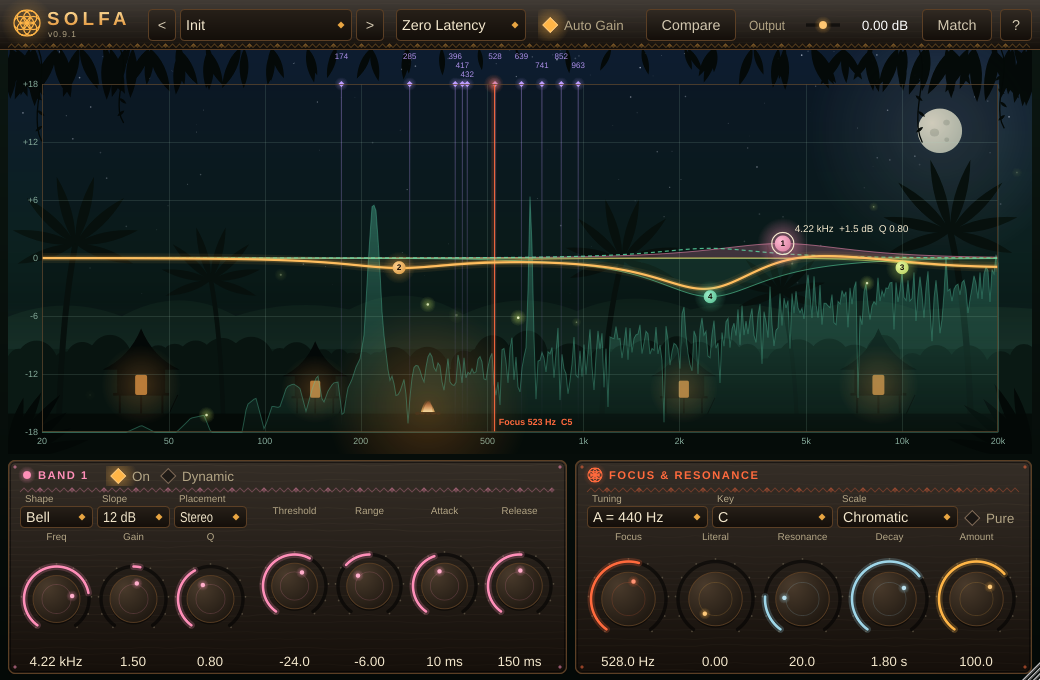
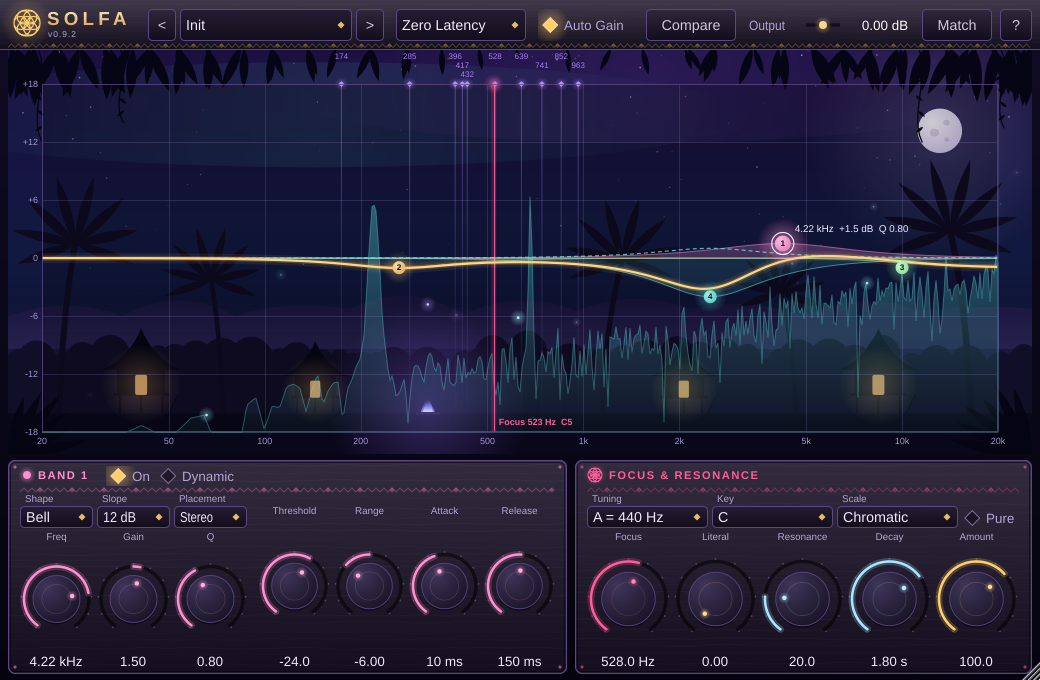
More mystical colours (0.9.2)
- Indigo-violet night sky with a faint aqua and violet aurora wash
- Amethyst-stained wood panels, violet rims, amethyst stone knobs
- Violet spirit fire; aqua and violet spirit lights replace yellow fireflies
- Aqua analyser mist, amethyst solfeggio beams, rose-pink Focus beam,
  jewel-tone band palette; EQ curve stays gold for readability
- Colours only: no change to DSP, parameters, state or layout
- README, CHANGELOG, VERSION and screenshots updated

Claude-Session: https://claude.ai/code/session_01QCVWjobqht4Js8Q9LCPvce

diff --git a/source/ui/Scenery.cpp b/source/ui/Scenery.cpp
@@ -100,8 +100,8 @@ namespace solfa::ui::scenery
     void drawNightScene (juce::Graphics& g, juce::Rectangle<float> r)
     {
         using juce::Colour;
-        juce::ColourGradient sky (Colour (0xff0e1c30), r.getX(), r.getY(), Colour (0xff060d0a), r.getX(), r.getBottom(), false);
-        sky.addColour (0.5, Colour (0xff0c211f));
+        juce::ColourGradient sky (Colour (0xff1c1040), r.getX(), r.getY(), Colour (0xff07071a), r.getX(), r.getBottom(), false);
+        sky.addColour (0.5, Colour (0xff121a42));
         g.setGradientFill (sky);
         g.fillRect (r);
 
@@ -114,20 +114,31 @@ namespace solfa::ui::scenery
             const auto x = r.getX() + rng.nextFloat() * r.getWidth();
             const auto y = r.getY() + fy * r.getHeight();
             const auto s = 0.5f + rng.nextFloat() * 1.3f;
-            g.setColour (Colour (0xffe8efff).withAlpha ((0.12f + 0.55f * rng.nextFloat()) * (1.0f - fy)));
+            g.setColour (Colour (0xffeee8ff).withAlpha ((0.12f + 0.55f * rng.nextFloat()) * (1.0f - fy)));
             g.fillEllipse (x - s / 2, y - s / 2, s, s);
+        }
+
+        // Aurora: two soft washes (aqua, violet) drifting across the upper sky
+        for (auto [cx, cy, rx, colour, alpha] : { std::tuple { 0.30f, 0.16f, 0.42f, Colour (0xff4fe6d2), 0.10f },
+                                                    std::tuple { 0.62f, 0.10f, 0.36f, Colour (0xffb06bff), 0.11f } })
+        {
+            const juce::Point<float> c { r.getX() + r.getWidth() * cx, r.getY() + r.getHeight() * cy };
+            const auto w = r.getWidth() * rx, h = r.getHeight() * 0.13f;
+            juce::ColourGradient wash (colour.withAlpha (alpha), c.x, c.y, colour.withAlpha (0.0f), c.x + w, c.y, true);
+            g.setGradientFill (wash);
+            g.fillEllipse (c.x - w, c.y - h, w * 2, h * 2);
         }
 
         // Moon with a wide halo
         const auto mr = juce::jlimit (12.0f, 30.0f, juce::jmin (r.getWidth(), r.getHeight()) * 0.055f);
         const juce::Point<float> mc { r.getRight() - r.getWidth() * 0.09f, r.getY() + r.getHeight() * 0.2f };
-        g.setGradientFill (juce::ColourGradient (Colour (0xffcfe4ff).withAlpha (0.16f), mc.x, mc.y, Colour (0xffcfe4ff).withAlpha (0.0f),
+        g.setGradientFill (juce::ColourGradient (Colour (0xffd9ccff).withAlpha (0.18f), mc.x, mc.y, Colour (0xffd9ccff).withAlpha (0.0f),
             mc.x + mr * 6, mc.y, true));
         g.fillEllipse (mc.x - mr * 6, mc.y - mr * 6, mr * 12, mr * 12);
-        g.setGradientFill (juce::ColourGradient (Colour (0xfffdf8e4), mc.x - mr * 0.35f, mc.y - mr * 0.35f, Colour (0xffc4cfbf),
+        g.setGradientFill (juce::ColourGradient (Colour (0xfffbf7ff), mc.x - mr * 0.35f, mc.y - mr * 0.35f, Colour (0xffc6bce6),
             mc.x + mr, mc.y + mr, true));
         g.fillEllipse (mc.x - mr, mc.y - mr, mr * 2, mr * 2);
-        g.setColour (Colour (0xff4a5848).withAlpha (0.18f));
+        g.setColour (Colour (0xff5a4f7c).withAlpha (0.18f));
         g.fillEllipse (mc.x - mr * 0.45f, mc.y - mr * 0.1f, mr * 0.42f, mr * 0.36f);
         g.fillEllipse (mc.x + mr * 0.15f, mc.y - mr * 0.5f, mr * 0.3f, mr * 0.26f);
         g.fillEllipse (mc.x + mr * 0.2f, mc.y + mr * 0.3f, mr * 0.22f, mr * 0.2f);
@@ -147,17 +158,17 @@ namespace solfa::ui::scenery
             }
             hills.lineTo (r.getRight(), r.getBottom());
             hills.closeSubPath();
-            g.setColour (Colour (0xff10261f));
+            g.setColour (Colour (0xff1b1640));
             g.fillPath (hills);
         }
 
         // Mist band in front of the hills
-        g.setGradientFill (juce::ColourGradient (Colour (0xff6fa59a).withAlpha (0.0f), 0, r.getY() + r.getHeight() * 0.62f,
-            Colour (0xff6fa59a).withAlpha (0.07f), 0, r.getY() + r.getHeight() * 0.74f, false));
+        g.setGradientFill (juce::ColourGradient (Colour (0xffa08fe6).withAlpha (0.0f), 0, r.getY() + r.getHeight() * 0.62f,
+            Colour (0xffa08fe6).withAlpha (0.09f), 0, r.getY() + r.getHeight() * 0.74f, false));
         g.fillRect (r.withTop (r.getY() + r.getHeight() * 0.62f).withHeight (r.getHeight() * 0.12f));
 
         // Treeline of rounded crowns
-        const auto treeColour = Colour (0xff0a1914);
+        const auto treeColour = Colour (0xff110e28);
         {
             juce::Path crowns;
             const auto line = r.getY() + r.getHeight() * 0.79f;
@@ -179,28 +190,28 @@ namespace solfa::ui::scenery
             drawPalm (g, { r.getX() + r.getWidth() * fx, ground }, r.getHeight() * fh, r.getHeight() * lean, treeColour.darker (0.2f));
 
         // Ground and the village
-        g.setColour (Colour (0xff050c09));
+        g.setColour (Colour (0xff09071a));
         g.fillRect (r.withTop (ground));
         const auto hutW = juce::jlimit (34.0f, 92.0f, r.getWidth() * 0.065f);
-        const auto hutColour = Colour (0xff040a08);
-        const auto lamp = Colour (0xffffa94d);
+        const auto hutColour = Colour (0xff060516);
+        const auto lamp = Colour (0xffffc27a);
         for (auto [fx, size] : { std::pair { 0.13f, 1.0f }, std::pair { 0.30f, 0.85f }, std::pair { 0.66f, 0.85f }, std::pair { 0.85f, 1.0f } })
             drawHut (g, r.getX() + r.getWidth() * fx, ground, hutW * size, hutColour, lamp);
 
         // Fire pit (stones and logs; the flame itself is animated)
         const auto fire = firePosition (r);
         const auto fs = fireScale (r);
-        g.setColour (Colour (0xff1a120c));
+        g.setColour (Colour (0xff1d1632));
         for (int i = -2; i <= 2; ++i)
             g.fillEllipse (fire.x + (float) i * fs * 0.32f - fs * 0.14f, fire.y - fs * 0.1f, fs * 0.28f, fs * 0.18f);
-        g.setColour (Colour (0xff2a1a10));
+        g.setColour (Colour (0xff2b1b2e));
         g.drawLine (fire.x - fs * 0.5f, fire.y, fire.x + fs * 0.4f, fire.y - fs * 0.2f, juce::jmax (1.5f, fs * 0.08f));
         g.drawLine (fire.x + fs * 0.5f, fire.y, fire.x - fs * 0.4f, fire.y - fs * 0.2f, juce::jmax (1.5f, fs * 0.08f));
     }
 
     void drawCanopy (juce::Graphics& g, juce::Rectangle<float> r)
     {
-        const auto c = juce::Colour (0xff030806);
+        const auto c = juce::Colour (0xff050413);
         juce::Random rng (404);
         juce::Path leaves;
 
@@ -256,8 +267,8 @@ namespace solfa::ui::scenery
     {
         const auto flicker = 0.82f + 0.11f * std::sin (t * 9.3f) + 0.07f * std::sin (t * 23.1f + 1.3f);
         const auto glowR = scale * 7.0f * flicker;
-        g.setGradientFill (juce::ColourGradient (juce::Colour (0xffff8a2a).withAlpha (0.30f * flicker), base.x, base.y - scale * 0.4f,
-            juce::Colour (0xffff8a2a).withAlpha (0.0f), base.x + glowR, base.y, true));
+        g.setGradientFill (juce::ColourGradient (juce::Colour (0xff9a6bff).withAlpha (0.34f * flicker), base.x, base.y - scale * 0.4f,
+            juce::Colour (0xff9a6bff).withAlpha (0.0f), base.x + glowR, base.y, true));
         g.fillEllipse (base.x - glowR, base.y - scale * 0.4f - glowR, glowR * 2, glowR * 2);
 
         // Two flame tongues swaying out of phase
@@ -271,8 +282,8 @@ namespace solfa::ui::scenery
             flame.quadraticTo (base.x - w * 0.8f, base.y - h * 0.6f, base.x + sway, base.y - h);
             flame.quadraticTo (base.x + w * 0.8f, base.y - h * 0.6f, base.x + w, base.y - scale * 0.1f);
             flame.closeSubPath();
-            g.setGradientFill (juce::ColourGradient (juce::Colour (k == 0 ? 0xffffd27a : 0xfffff1b8), base.x, base.y,
-                juce::Colour (0xffff5a1f).withAlpha (0.0f), base.x, base.y - h, false));
+            g.setGradientFill (juce::ColourGradient (juce::Colour (k == 0 ? 0xffb9a2ff : 0xffe4fbff), base.x, base.y,
+                juce::Colour (0xff7448ff).withAlpha (0.0f), base.x, base.y - h, false));
             g.fillPath (flame);
         }
     }
@@ -343,7 +354,7 @@ namespace solfa::ui::scenery
                 grain.startNewSubPath (r.getX(), y);
                 for (float x = r.getX() + 40.0f; x < r.getRight() + 40.0f; x += 40.0f)
                     grain.quadraticTo (x - 20.0f, y + (rng.nextFloat() - 0.5f) * 4.0f, x, y + (rng.nextFloat() - 0.5f) * 2.0f);
-                g.setColour (juce::Colour (0xffffe2b8).withAlpha (0.018f + 0.02f * rng.nextFloat()));
+                g.setColour (juce::Colour (0xffe6d8ff).withAlpha (0.018f + 0.02f * rng.nextFloat()));
                 g.strokePath (grain, juce::PathStrokeType (1.0f));
             }
         }
@@ -374,9 +385,10 @@ namespace solfa::ui::scenery
 
     void Fireflies::draw (juce::Graphics& g, juce::Rectangle<float> r) const
     {
-        const auto glowColour = theme::firefly;
-        for (const auto& f : flies)
+        for (size_t i = 0; i < flies.size(); ++i)
         {
+            const auto& f = flies[i];
+            const auto glowColour = i % 3 == 0 ? theme::marker : theme::firefly; // mostly aqua, some violet
             const auto blink = std::sin (time * f.rate + f.phase);
             const auto b = blink > 0.0f ? blink * blink * blink : 0.0f;
             if (b < 0.02f)
@@ -388,7 +400,7 @@ namespace solfa::ui::scenery
             const auto glow = 7.0f * f.size;
             g.setGradientFill (juce::ColourGradient (glowColour.withAlpha (0.45f * b), x, y, glowColour.withAlpha (0.0f), x + glow, y, true));
             g.fillEllipse (x - glow, y - glow, glow * 2, glow * 2);
-            g.setColour (juce::Colour (0xfff6ffd0).withAlpha (0.9f * b));
+            g.setColour (juce::Colour (0xfff2fdff).withAlpha (0.9f * b));
             const auto core = 1.1f * f.size;
             g.fillEllipse (x - core, y - core, core * 2, core * 2);
         }

diff --git a/source/ui/Theme.h b/source/ui/Theme.h
@@ -3,30 +3,31 @@
 #include <cmath>
 #include <juce_gui_basics/juce_gui_basics.h>
 
-// Solfa's own visual identity: an old jungle village at night. Moonlit sky, carved dark wood,
-// torch-gold curve, jade mist analyser, orchid-violet solfeggio markers, ember Focus, fireflies.
+// Solfa's own visual identity: a mystical jungle village at night. Indigo sky with an aurora,
+// amethyst-stained wood, sacred-gold curve, aqua spirit-mist analyser, amethyst solfeggio markers,
+// rose-flame Focus, spirit lights.
 namespace solfa::ui::theme
 {
-    inline const juce::Colour background { 0xff07100c }; // jungle night
-    inline const juce::Colour panel { 0xff1d150e };      // dark carved wood
-    inline const juce::Colour panelEdge { 0xff5b3f25 };  // wood rim
-    inline const juce::Colour grid { 0x24a8d5c0 };       // faint moonlit lines (translucent)
-    inline const juce::Colour gridText { 0xff86ab9b };
-    inline const juce::Colour text { 0xfff3e7cc };       // parchment
-    inline const juce::Colour dimText { 0xffb3a585 };
-    inline const juce::Colour curve { 0xffffb547 };      // torch gold
-    inline const juce::Colour spectrum { 0xff58d1ad };   // jade mist
-    inline const juce::Colour marker { 0xffbf9dff };     // orchid violet
-    inline const juce::Colour focus { 0xffff6a3d };      // ember
-    inline const juce::Colour accent { 0xff9fd6e8 };     // moonlight
-    inline const juce::Colour firefly { 0xffd7f56a };
+    inline const juce::Colour background { 0xff0a0816 }; // indigo night
+    inline const juce::Colour panel { 0xff1b1329 };      // amethyst-stained wood
+    inline const juce::Colour panelEdge { 0xff5c4683 };  // violet rim
+    inline const juce::Colour grid { 0x26c8b8ff };       // faint lilac lines (translucent)
+    inline const juce::Colour gridText { 0xffa497d2 };
+    inline const juce::Colour text { 0xfff1eaff };       // moon-white
+    inline const juce::Colour dimText { 0xffb3a6d4 };
+    inline const juce::Colour curve { 0xffffcf6e };      // sacred gold
+    inline const juce::Colour spectrum { 0xff5ee8e0 };   // spirit aqua
+    inline const juce::Colour marker { 0xffb48cff };     // amethyst
+    inline const juce::Colour focus { 0xffff5c9a };      // rose flame
+    inline const juce::Colour accent { 0xffa8e6ff };     // moonlight
+    inline const juce::Colour firefly { 0xff8ff7ff };
 
-    // One colour per band, cycling: orchid, torch, firefly, jade, river, moon, violet, ember.
+    // One colour per band, cycling: rose, gold, mint, aqua, sapphire, amethyst, orchid, coral.
     inline juce::Colour band (int index)
     {
-        static const juce::Colour palette[] = { juce::Colour (0xffff8fb8), juce::Colour (0xffffb347), juce::Colour (0xffd7f56a),
-            juce::Colour (0xff5fe0a8), juce::Colour (0xff4fd0e0), juce::Colour (0xff8fb8ff), juce::Colour (0xffc39bff),
-            juce::Colour (0xffff7a59) };
+        static const juce::Colour palette[] = { juce::Colour (0xffff8fd0), juce::Colour (0xffffc76b), juce::Colour (0xff9dffb0),
+            juce::Colour (0xff5ee8e0), juce::Colour (0xff7fb2ff), juce::Colour (0xffa98bff), juce::Colour (0xffe07bff),
+            juce::Colour (0xffff7f8a) };
         return palette[index % 8];
     }
 
@@ -53,7 +54,7 @@ namespace solfa::ui::theme
             setColour (juce::ComboBox::outlineColourId, panelEdge);
             setColour (juce::ComboBox::textColourId, text);
             setColour (juce::ComboBox::arrowColourId, curve);
-            setColour (juce::PopupMenu::backgroundColourId, juce::Colour (0xff140e09));
+            setColour (juce::PopupMenu::backgroundColourId, juce::Colour (0xff130e20));
             setColour (juce::PopupMenu::textColourId, text);
             setColour (juce::PopupMenu::headerTextColourId, curve);
             setColour (juce::PopupMenu::highlightedBackgroundColourId, panelEdge);
@@ -61,15 +62,15 @@ namespace solfa::ui::theme
             setColour (juce::TextButton::buttonColourId, panel);
             setColour (juce::TextButton::buttonOnColourId, curve);
             setColour (juce::TextButton::textColourOffId, text.withAlpha (0.85f));
-            setColour (juce::TextButton::textColourOnId, juce::Colour (0xff1a0f05));
+            setColour (juce::TextButton::textColourOnId, juce::Colour (0xff1a0f2a));
             setColour (juce::ToggleButton::textColourId, dimText);
             setColour (juce::ToggleButton::tickColourId, curve);
-            setColour (juce::TooltipWindow::backgroundColourId, juce::Colour (0xff140e09));
+            setColour (juce::TooltipWindow::backgroundColourId, juce::Colour (0xff130e20));
             setColour (juce::TooltipWindow::textColourId, text);
             setColour (juce::TooltipWindow::outlineColourId, panelEdge);
         }
 
-        // Carved stone knob: rune dots around the rim, a glowing ember arc, a lit pointer bead.
+        // Carved stone knob: rune dots around the rim, a glowing arc, a lit pointer bead.
         void drawRotarySlider (juce::Graphics& g, int x, int y, int w, int h, float pos, float start, float end,
             juce::Slider& slider) override
         {
@@ -111,8 +112,8 @@ namespace solfa::ui::theme
             // Stone body
             g.setColour (juce::Colours::black.withAlpha (0.5f));
             g.fillEllipse (centre.x - bodyR, centre.y - bodyR + 2.0f, bodyR * 2, bodyR * 2);
-            g.setGradientFill (juce::ColourGradient (juce::Colour (0xff4a3b2c), centre.x - bodyR * 0.4f, centre.y - bodyR * 0.5f,
-                juce::Colour (0xff15100b), centre.x + bodyR, centre.y + bodyR, true));
+            g.setGradientFill (juce::ColourGradient (juce::Colour (0xff3f3659), centre.x - bodyR * 0.4f, centre.y - bodyR * 0.5f,
+                juce::Colour (0xff110d1d), centre.x + bodyR, centre.y + bodyR, true));
             g.fillEllipse (centre.x - bodyR, centre.y - bodyR, bodyR * 2, bodyR * 2);
             g.setColour (panelEdge.withAlpha (0.9f));
             g.drawEllipse (centre.x - bodyR, centre.y - bodyR, bodyR * 2, bodyR * 2, 1.0f);
@@ -147,7 +148,7 @@ namespace solfa::ui::theme
             g.fillPath (p);
         }
 
-        // Wooden plaques; "on" plaques glow with torchlight.
+        // Wooden plaques; "on" plaques glow gold.
         void drawButtonBackground (juce::Graphics& g, juce::Button& b, const juce::Colour&, bool highlighted, bool down) override
         {
             const auto r = b.getLocalBounds().toFloat().reduced (0.5f);
@@ -155,7 +156,7 @@ namespace solfa::ui::theme
             if (on)
             {
                 glow (g, r.getCentre(), r.getWidth() * 0.7f, curve, 0.25f);
-                g.setGradientFill (juce::ColourGradient (curve.brighter (0.2f), 0, r.getY(), juce::Colour (0xffd9782a), 0, r.getBottom(), false));
+                g.setGradientFill (juce::ColourGradient (curve.brighter (0.2f), 0, r.getY(), juce::Colour (0xffd2953c), 0, r.getBottom(), false));
             }
             else
                 g.setGradientFill (juce::ColourGradient (panel.brighter (highlighted ? 0.25f : 0.1f), 0, r.getY(), panel.darker (0.5f), 0,

diff --git a/source/PluginEditor.cpp b/source/PluginEditor.cpp
@@ -137,7 +137,7 @@ void PluginEditor::paint (juce::Graphics& g)
     background.draw (g, getLocalBounds(), [] (juce::Graphics& bg, juce::Rectangle<float> r) {
         namespace theme = ui::theme;
         // Jungle floor behind the panels
-        bg.setGradientFill (juce::ColourGradient (juce::Colour (0xff0c1712), 0, r.getY(), juce::Colour (0xff040907), 0, r.getBottom(), false));
+        bg.setGradientFill (juce::ColourGradient (juce::Colour (0xff110c24), 0, r.getY(), juce::Colour (0xff05040e), 0, r.getBottom(), false));
         bg.fillRect (r);
 
         // Top bar: a carved wooden beam
@@ -152,7 +152,7 @@ void PluginEditor::paint (juce::Graphics& g)
             grain.startNewSubPath (beam.getX(), y);
             for (float x = 60.0f; x < beam.getRight() + 60.0f; x += 60.0f)
                 grain.quadraticTo (x - 30.0f, y + (rng.nextFloat() - 0.5f) * 3.0f, x, y);
-            bg.setColour (juce::Colour (0xffffe2b8).withAlpha (0.025f));
+            bg.setColour (juce::Colour (0xffe6d8ff).withAlpha (0.025f));
             bg.strokePath (grain, juce::PathStrokeType (1.0f));
         }
         bg.setColour (theme::panelEdge);
@@ -160,11 +160,11 @@ void PluginEditor::paint (juce::Graphics& g)
         ui::scenery::drawCarvedBand (bg, { beam.getX() + 8.0f, beam.getBottom() - 6.0f, beam.getWidth() - 16.0f, 3.5f },
             theme::curve.withAlpha (0.25f));
 
-        // Logo: seed of life with a warm glow, and the name in torch gold
+        // Logo: seed of life with a warm glow, and the name in gold
         const juce::Point<float> logo { 27.0f, 23.0f };
         theme::glow (bg, logo, 26.0f, theme::curve, 0.3f);
         ui::scenery::drawSeedOfLife (bg, logo, 13.0f, theme::curve, 1.2f);
-        bg.setGradientFill (juce::ColourGradient (juce::Colour (0xffffe3a3), 0, 8.0f, juce::Colour (0xffe08a2c), 0, 30.0f, false));
+        bg.setGradientFill (juce::ColourGradient (juce::Colour (0xfffff0c8), 0, 8.0f, juce::Colour (0xffd99a45), 0, 30.0f, false));
         bg.setFont (juce::FontOptions (21.0f, juce::Font::bold).withKerningFactor (0.2f));
         bg.drawText ("SOLFA", juce::Rectangle<float> (47, 5, 100, 26), juce::Justification::centredLeft);
         bg.setColour (theme::dimText);

diff --git a/source/ui/EqDisplay.cpp b/source/ui/EqDisplay.cpp
@@ -184,7 +184,7 @@ namespace solfa::ui
         const auto scene = getLocalBounds().toFloat();
         scenery::drawFire (g, scenery::firePosition (scene), scenery::fireScale (scene), fireflies.getTime());
 
-        // Spectrum: jade mist
+        // Spectrum: aqua spirit mist
         {
             juce::Path spec;
             spec.startNewSubPath (area.getX(), area.getBottom());
@@ -241,7 +241,7 @@ namespace solfa::ui
             }
         }
         {
-            // The Focus: an ember beam
+            // The Focus: a rose-flame beam
             const auto focus = processor.getEffectiveFocusHz();
             const auto x = xOf (focus);
             g.setColour (theme::focus.withAlpha (0.16f));
@@ -298,7 +298,7 @@ namespace solfa::ui
             }
         }
 
-        // Total curve: torchlight with a soft glow
+        // Total curve: sacred gold with a soft glow
         {
             const auto total = curvePath ([&] (double f) { return model.totalDb (f); });
             g.setColour (theme::curve.withAlpha (0.08f));
@@ -323,7 +323,7 @@ namespace solfa::ui
             g.setGradientFill (juce::ColourGradient (colour.brighter (0.6f), pos.x - r * 0.3f, pos.y - r * 0.3f, colour.darker (0.2f),
                 pos.x + r, pos.y + r, true));
             g.fillEllipse (pos.x - r, pos.y - r, 2 * r, 2 * r);
-            g.setColour (juce::Colour (0xff120a04));
+            g.setColour (juce::Colour (0xff140a22));
             g.setFont (juce::FontOptions (9.0f, juce::Font::bold));
             g.drawText (juce::String (b + 1), juce::Rectangle<float> (pos.x - r, pos.y - r, 2 * r, 2 * r), juce::Justification::centred);
             if (b == selected)

diff --git a/source/ui/Scenery.h b/source/ui/Scenery.h
@@ -4,7 +4,7 @@
 #include <functional>
 #include <vector>
 
-// Procedural artwork for Solfa's "jungle village at night" look: moonlit sky, canopy and
+// Procedural artwork for Solfa's "jungle village at night" look: indigo sky with an aurora, canopy and
 // stilt-hut silhouettes, firelight, fireflies, carved-wood panels and a seed-of-life glyph.
 // Everything is drawn with paths and gradients (no bitmaps), so it scales to any size.
 namespace solfa::ui::scenery

diff --git a/README.md b/README.md
@@ -11,7 +11,7 @@ evidence does and doesn't support, is in [`docs/research/`](docs/research/).
 
 ![Solfa](docs/images/editor.png)
 
-**Status: 0.9.1 beta.** Every feature is built and tested automatically on macOS, Windows and
+**Status: 0.9.2 beta.** Every feature is built and tested automatically on macOS, Windows and
 Linux, but it has not yet been tried by hand in real DAWs. Please work through
 [`docs/testing-checklist.md`](docs/testing-checklist.md) and note anything odd.
 
@@ -40,8 +40,8 @@ Linux, but it has not yet been tried by hand in real DAWs. Please work through
 
 The glowing gold line is the overall EQ; each band is a lantern in its own colour, with its
 curve shaded behind it. Violet light beams mark the solfeggio numbers (174 ... 963) and 432; the
-ember-red beam is the Focus. The scene behind (a jungle village at night: moon, palms, stilt huts,
-a fire and fireflies) is drawn in code and stays dim so the curves remain easy to read.
+rose-pink beam is the Focus. The scene behind (a jungle village at night under an indigo sky and a
+faint aurora: moon, palms, stilt huts, a violet spirit fire and drifting aqua and violet lights) is drawn in code and stays dim so the curves remain easy to read.
 
 ### Bands
 

diff --git a/CLAUDE.md b/CLAUDE.md
@@ -7,7 +7,7 @@ Guidance for Claude Code when working in this repository.
 Solfa is a JUCE 9 audio plugin (parametric EQ with "spiritual frequency" presets) built from
 the Pamplejuce template. Formats: VST3, AU, AAX, CLAP, Standalone. Owner develops on macOS.
 Not being sold yet: no licensing, signing or store work unless asked.
-Status: 0.9.1 beta, feature-complete per `docs/roadmap.md`; awaiting manual DAW testing
+Status: 0.9.2 beta, feature-complete per `docs/roadmap.md`; awaiting manual DAW testing
 (`docs/testing-checklist.md`).
 
 The design rationale and evidence are in `docs/research/`. Read the report before changing

diff --git a/CHANGELOG.md b/CHANGELOG.md
@@ -1,5 +1,13 @@
 # Changelog
 
+## 0.9.2 (beta)
+
+- **More mystical colours:** indigo-violet night sky with a faint aqua and violet aurora,
+  amethyst-stained wood panels and stone knobs, a violet spirit fire, aqua and violet spirit
+  lights in place of yellow fireflies, aqua analyser mist, amethyst solfeggio beams and a
+  rose-pink Focus beam. The EQ curve stays gold so it remains the clearest thing on screen.
+  Colours only; sound, parameters and layout are unchanged.
+
 ## 0.9.1 (beta)
 
 - **New look:** a jungle village at night. Moonlit sky with stars, palm and canopy silhouettes,
